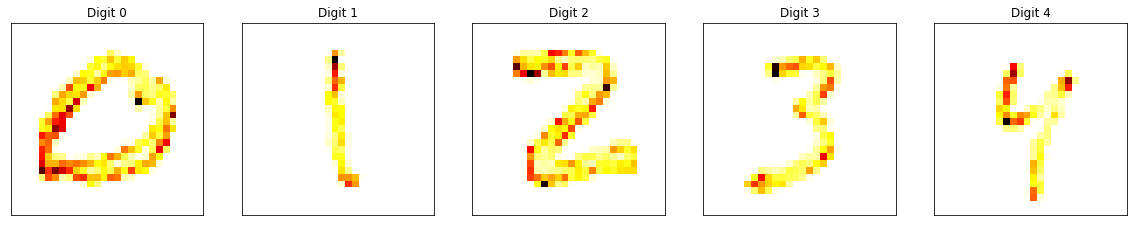
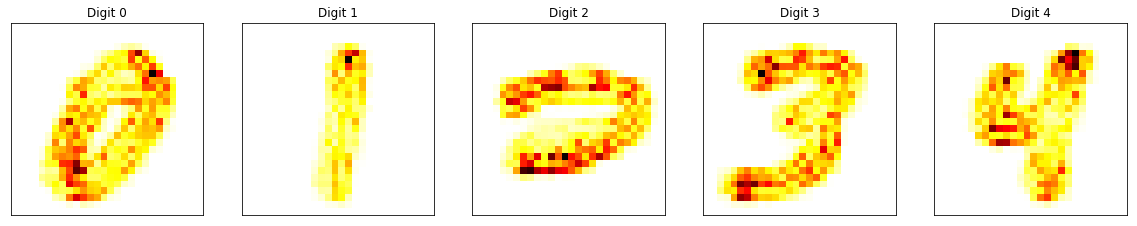
Debug Deep Taylor Decomposition code

diff --git a/models/models_3_2.py b/models/models_3_2.py
@@ -81,9 +81,18 @@ class LRP:
 
             for i in range(len(self.ops)):
 
+                if i + 2 is len(self.ops):
+
+                    if 'conv2d' in self.ops[i]:
+                        Rs.append(self.backprop_conv_input(self.activations[i + 1], self.weights[j], Rs[-1], self.conv_strides))
+                    else:
+                        Rs.append(self.backprop_dense_input(self.activations[i + 1], self.weights[j], Rs[-1]))
+
+                    continue
+
                 if 'softmax' in self.ops[i]:
                     Rs.append(self.activations[i][:,logit,None])
-                    Rs.append(self.backprop_dense(self.activations[i + 1], self.weights[j], Rs[-1]))
+                    Rs.append(self.backprop_dense(self.activations[i + 1], self.weights[j][:,logit,None], Rs[-1]))
                     j += 1
                 elif 'dense' in self.ops[i]:
                     Rs.append(self.backprop_dense(self.activations[i + 1], self.weights[j], Rs[-1]))
@@ -147,9 +156,9 @@ class LRP:
 
         c_o = nn_ops.conv2d_backprop_input(tf.shape(X), kernel, s, strides, padding)
         c_p = nn_ops.conv2d_backprop_input(tf.shape(X), W_p, s, strides, padding)
-        c_n = nn_ops.covn2d_backprop_input(tf.shape(X), W_n, s, strides, padding)
+        c_n = nn_ops.conv2d_backprop_input(tf.shape(X), W_n, s, strides, padding)
 
-        return X * c_0 - L * c_p - H * c_n
+        return X * c_o - L * c_p - H * c_n
 
     def backprop_dense_input(self, X, kernel, relevance, lowest=0., highest=1.):
         W_p = tf.maximum(0., kernel)
@@ -169,4 +178,4 @@ class LRP:
         c_p = tf.matmul(s, tf.transpose(W_p))
         c_n = tf.matmul(s, tf.transpose(W_n))
 
-        return X * c_0 - L * c_p - H * c_n
+        return X * c_o - L * c_p - H * c_n
